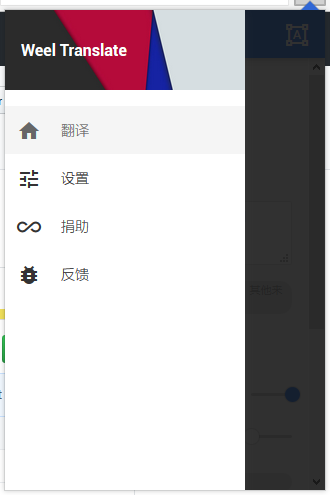
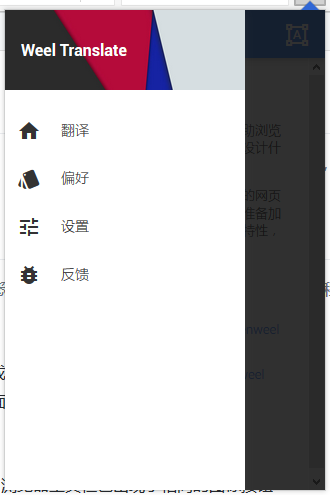
Update README & Fix FAP's Issue

diff --git a/src/scripts/libs/actions/content.js b/src/scripts/libs/actions/content.js
@@ -100,21 +100,22 @@ add_action(RENDER_FLOAT_ACTION_PANEL, ({ payload = {} }, cfg) => {
     const { clientHeight, clientWidth } = fap
     const { x, y, height, width } = selectionRect()
 
-    const midd_x = (x + width / 2) - (clientWidth / 2)
+    const midd_x = (x + width / 2) - 12
     const pos_x = midd_x
     const pos_y = (y + height + clientHeight) < wH ? fap.classList.remove('_reverse') || (y + height) : fap.classList.add('_reverse') || (y - clientHeight)
 
     fap.style.webkitTransform = `translate3D(${pos_x}px, ${pos_y}px, 0)`
 
     const fapContainer = fap.querySelector(`${WEEL_FAP}--container`)
-    let offset_x = fapContainer.clientWidth / 2
+    let halfCon = fapContainer.clientWidth / 2 - 12
+    let offset_x = halfCon
 
-    if ((midd_x + offset_x) >= wW) {
-      offset_x += (midd_x + offset_x - wW)
+    if ((midd_x + halfCon) >= wW) {
+      offset_x = halfCon * 2 - 12
     }
 
-    if (midd_x <= offset_x) {
-      offset_x -= (wW - (midd_x + offset_x))
+    if (midd_x <= halfCon) {
+      offset_x = 12
     }
 
     fapContainer.style.left = `-${offset_x}px`

diff --git a/README.md b/README.md
@@ -1,15 +1,16 @@
-## 开始
-> 这是一个基于 Web Extension 接口的浏览器翻译扩展，因为使用习惯，第一步会先在 Firefox 上实现，然后根据情况移植到 Googel Chrome 上。
+## 项目介绍
+> 一个基于 Web Extension 的火狐浏览器的桌面翻译扩展。
 
-## 临时加载扩展
-> 目前还只在 Windows 系统下的 Firefox 测试开发，熟悉调试过程的可以自行操作，Chrome 的调试过程类似
+近期 Google 翻译服务回归大陆了，许多基于其接口的优秀扩展都可以恢复使用了，大概，所以就不继续造轮子了，这款扩展仍旧保持之前版本的文档阅读辅助的定位，全文翻译和段落翻译近期的版本不会再加入了。
 
-#### Firefox >=48
-0. 从 [Releases](https://github.com/wallenweel/weel-translation-extension/releases) 下载最新版本的压缩包，解压到本地（或者使用下面 **编译源码** 编译项目）
-0. 打开 `[附加组件调试](about:debugging#addons)` 页面
-0. 点击右上角的 **临时加载附加组件** 按钮
-0. 找到解压目录（或者编译出来的 dist 或 build 目录），选中打开 `manifest.json` 文件
-0. 成功之后，附加组件就多出了一个和项目同名的项，浏览器工具栏也出现了相同的图标按钮
+另，开始这个项目的时候，AMO 的扩展审核变得非常缓慢，审核过程中也会提交修复已知问题的版本，具体情况可以在 Issues 中提问。
+
+如果需要测试还未发布的版本，可以参考 [临时加载扩展](#临时加载扩展)，由于添加了扩展签名，加载后会临时覆盖已安装的版本，但重启浏览器之后就会恢复了。
+
+
+## 项目进展状态
+`pre-Alpha` ==> `Alpha` ==> `Beta √👻` => `RC`
+
 
 ## 准备完成的特性
 
@@ -26,8 +27,6 @@
 + 简易词汇收藏
 + ……
 
-## 项目进展状态
-`pre-Alpha` ==> `Alpha √👻` ==> `Beta` => `RC`
 
 ## 截图预览
 
@@ -37,9 +36,23 @@
 ![Settings page 1](extras/screenshots/settings_a.png)
 ![Settings page 2](extras/screenshots/settings_b.png)
 
+![Drawer navigator](extras/screenshots/preferences.png)
 ![Drawer navigator](extras/screenshots/drawer.png)
+
 ![Drawer navigator](extras/screenshots/fab.png)
 ![Drawer navigator](extras/screenshots/fap.png)
+
+
+## 临时加载扩展
+> 目前还只在 Windows 系统下的 Firefox 测试开发，熟悉调试过程的可以自行操作，Chrome 的调试过程类似
+
+#### Firefox >=48
+0. 从 [Releases](https://github.com/wallenweel/weel-translation-extension/releases) 下载最新版本的压缩包，解压到本地（或者使用下面 **编译源码** 编译项目）
+0. 打开 `[附加组件调试](about:debugging#addons)` 页面
+0. 点击右上角的 **临时加载附加组件** 按钮
+0. 找到解压目录（或者编译出来的 dist 或 build 目录），选中打开 `manifest.json` 文件
+0. 成功之后，附加组件就多出了一个和项目同名的项，浏览器工具栏也出现了相同的图标按钮
+
 
 ## 编译源码
 > 仓库的 master 分支为稳定版本（可编译通过，没有明显 bug），项目使用的自动化工具（gulp-next）是我根据自己习惯定制的，也同时在仓库的项目中可以找到。
